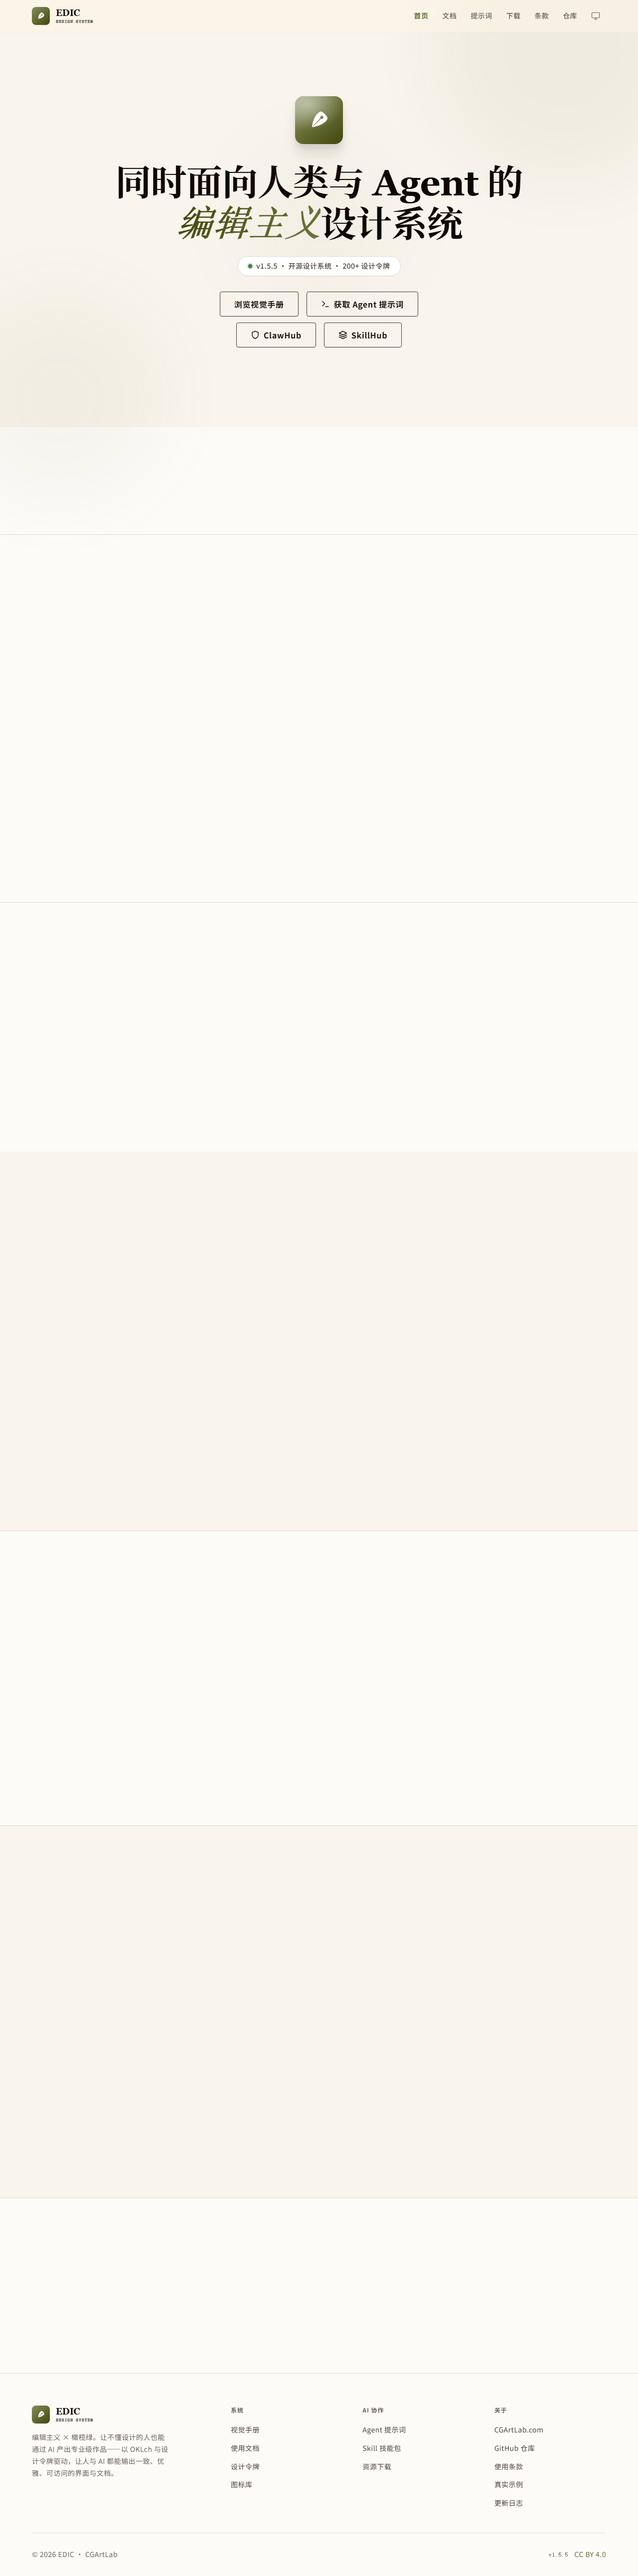
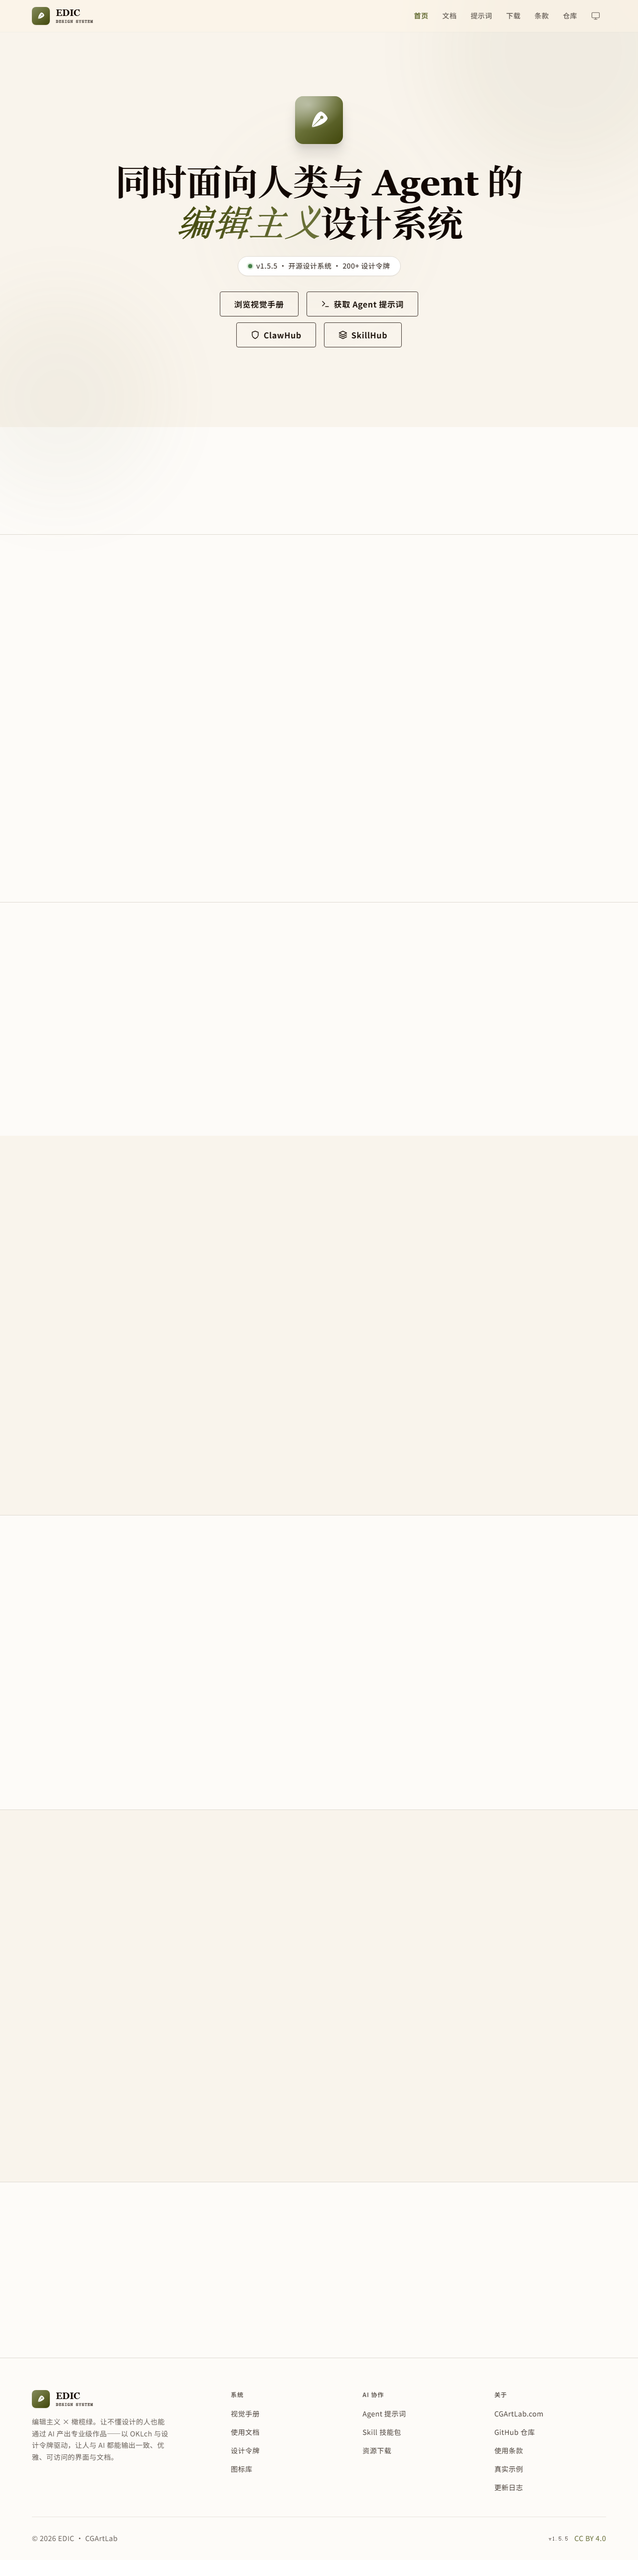
fix(Argus): close unclosed hero divs, remove dead CSS, tokenize mobile max-width
P2 fixes:
- index.html: add missing </div> to close .ds-hero-inner and .ds-wrapper
- styles.css: remove dead .ds-feature-track rule (carousel reverted)

P3 fixes:
- styles.css: .ds-hero-cycle max-width 150px -> var(--ds-space-40)
- styles.css: .ds-hero-actions .ds-btn max-width 280px -> 18rem
- styles.css: .ds-cta-actions .ds-btn max-width 280px -> 18rem

diff --git a/styles.css b/styles.css
@@ -1414,12 +1414,12 @@ h1, h2, h3, h4, h5, h6, .ds-h1, .ds-h2, .ds-h3, .ds-h4, .ds-h5, .ds-display, .ds
   .ds-logo-hero svg{width:var(--ds-space-12);height:var(--ds-space-12)}
   .ds-hero-badge{padding:var(--ds-space-2) var(--ds-space-4);font-size:var(--ds-text-caption)}
   .ds-hero-actions{margin-bottom:var(--ds-space-10)}
-  .ds-hero-actions .ds-btn{width:100%;max-width:280px}
+  .ds-hero-actions .ds-btn{width:100%;max-width:18rem}
   .ds-hero-cycle-word{font-size:1em}
-  .ds-hero-cycle{max-width:150px}
+  .ds-hero-cycle{max-width:var(--ds-space-40)}
   .ds-stat-num{font-size:var(--ds-text-h1)}
   .ds-footer-cols{grid-template-columns:1fr;gap:var(--ds-space-8)}
-  .ds-cta-actions .ds-btn{width:100%;max-width:280px}
+  .ds-cta-actions .ds-btn{width:100%;max-width:18rem}
   /* P0 #95: mobile scroll trap fix — remove fixed height, let content flow */
   .ds-prompt-body{max-height:none;overflow-y:visible}
   .ds-navbar-cta span{display:none}
@@ -1435,7 +1435,7 @@ h1, h2, h3, h4, h5, h6, .ds-h1, .ds-h2, .ds-h3, .ds-h4, .ds-h5, .ds-display, .ds
   .ds-reveal{opacity:1!important;transform:none!important}
   .ds-gradient-text{animation:none}
   .ds-hero-cycle-track{animation:none}
-  .ds-feature-track{animation-play-state:paused}
+
   /* Gravitas & Glow: kill the breathe keyframes explicitly so the
      shadow doesn't flicker between xs/md keyframe states at 0.001ms.
      Static glows (border, aura, surface) are fine — they're not animated. */

diff --git a/index.html b/index.html
@@ -89,8 +89,11 @@
             <svg viewBox="0 0 24 24" width="18" height="18" fill="none" stroke="currentColor" stroke-width="2" stroke-linecap="round" stroke-linejoin="round" aria-hidden="true"><polygon points="12 2 2 7 12 12 22 7 12 2"/><polyline points="2 17 12 22 22 17"/><polyline points="2 12 12 17 22 12"/></svg>
             SkillHub
           </a>
-         </div>
-       </div>
+          </div>
+        </div>
+      </div>
+    </div>
+  </div>
 </header>
 
 <!-- Compatibility -->
